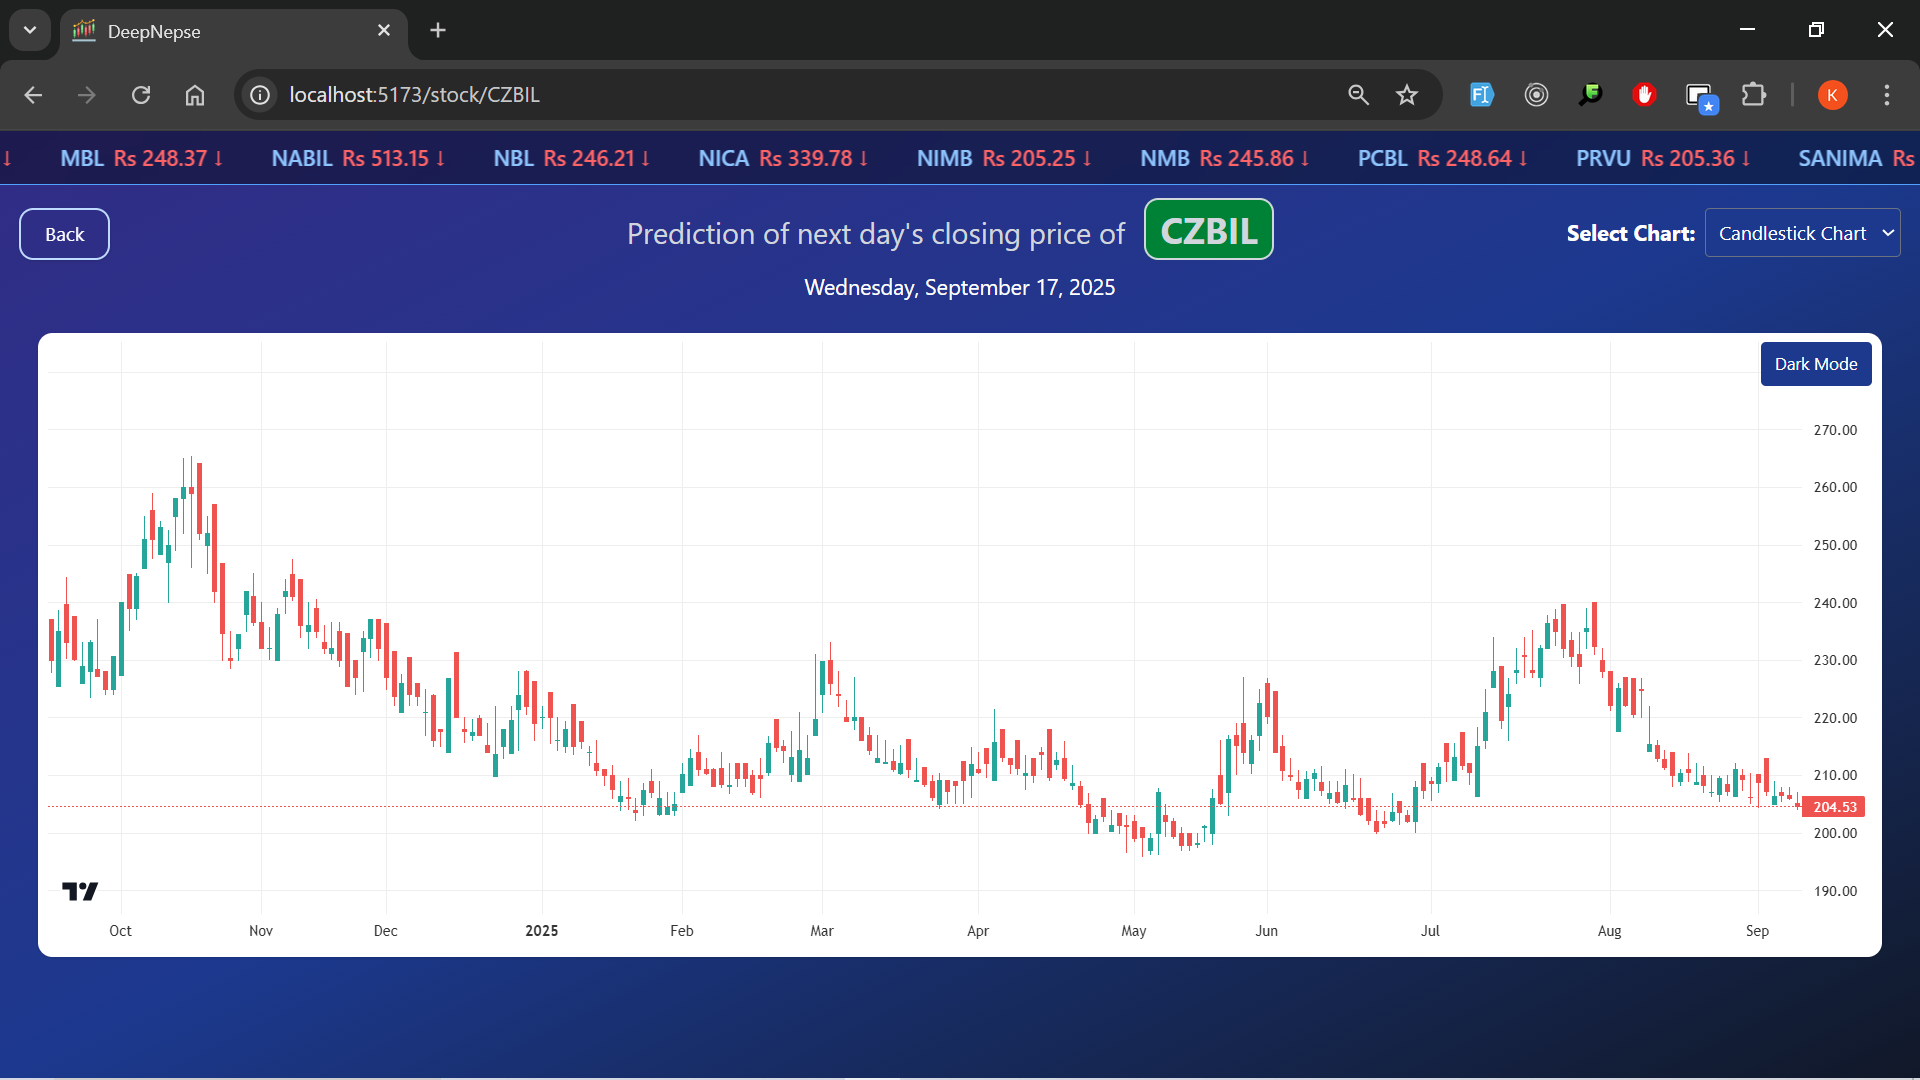
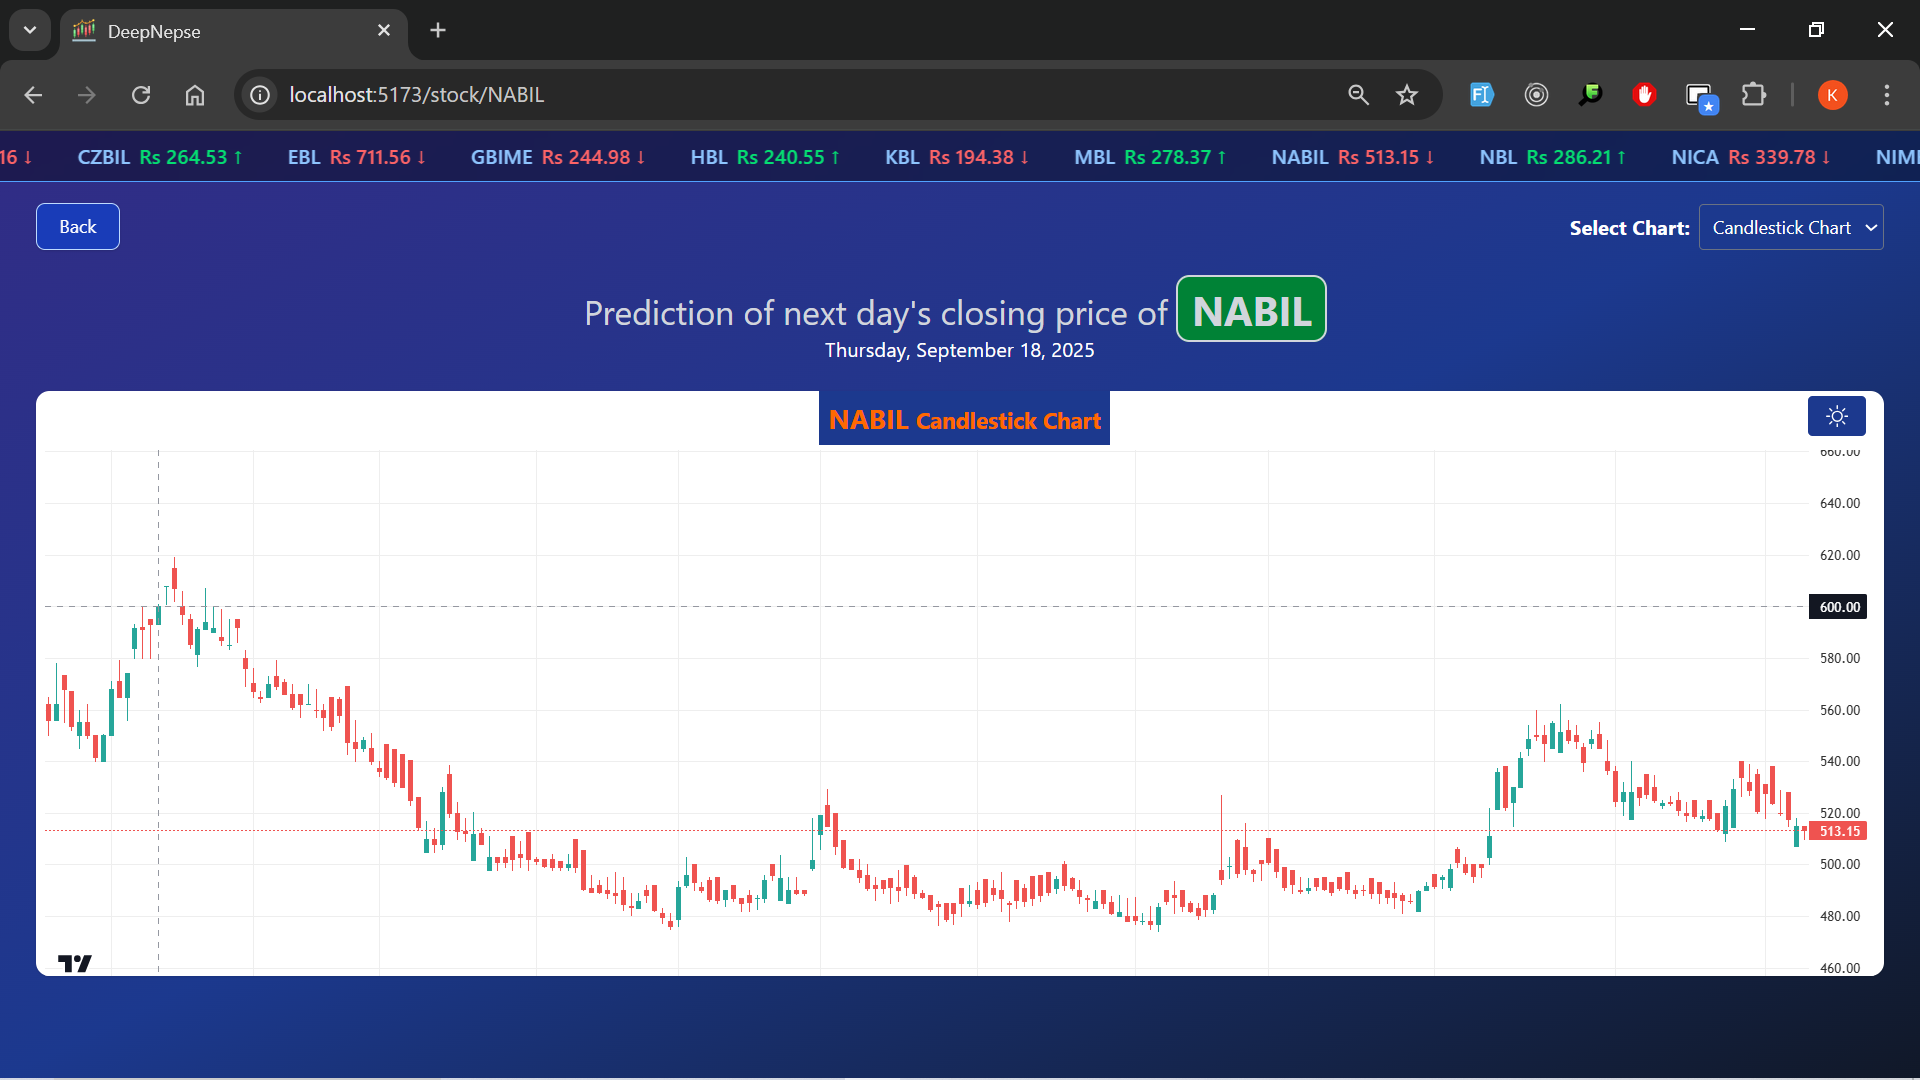
Update README and CSV data files; enhance UI components

diff --git a/frontend/src/pages/StockPrediction.jsx b/frontend/src/pages/StockPrediction.jsx
@@ -116,24 +116,27 @@ function StockPrediction() {
   };
 
   return (
-    <div className="relative min-h-screen bg-gradient-to-br from-indigo-900 via-blue-900 to-gray-900 text-white p-8">
+    <div className="relative min-h-screen bg-gradient-to-br from-indigo-900 via-blue-900 to-gray-900 text-white p-4 sm:p-6 md:p-8 overflow-x-hidden">
       {/* Stock ticker */}
-      <div className="absolute top-0 left-0 w-full overflow-hidden bg-black/40 backdrop-blur-md py-2 border-b border-blue-400">
-        <div className="animate-marquee flex gap-10 whitespace-nowrap text-lg font-semibold">
+      <div className="absolute top-0 left-0 w-full bg-black/40 backdrop-blur-md py-2 border-b border-blue-400">
+        <div className="animate-marquee flex gap-10 whitespace-nowrap text-sm sm:text-base md:text-lg font-semibold px-4">
           {stockSymbols.map((s, i) => {
-            const priceData = allPrices[s];
-            if (!priceData)
+            const symbolKey = s.toUpperCase();
+            const priceData = allPrices[symbolKey];
+            if (!priceData) {
               return (
                 <span key={i} className="text-gray-500">
-                  {s}: <LoadingSpinner/>
+                  {s}: loading...
                 </span>
               );
+            }
 
-            const yesterday = Number(priceData.yesterday);
-            const day2 = Number(priceData.day2);
+            const yesterday = Number(priceData?.yesterday ?? NaN);
+            const day2 = Number(priceData?.day2 ?? NaN);
 
             let color = "text-gray-300";
-            let arrow = "";
+            let arrow = "-";
+
             if (!isNaN(yesterday) && !isNaN(day2)) {
               if (yesterday > day2) {
                 color = "text-green-400";
@@ -141,6 +144,9 @@ function StockPrediction() {
               } else if (yesterday < day2) {
                 color = "text-red-400";
                 arrow = "↓";
+              } else {
+                color = "text-yellow-300";
+                arrow = "-";
               }
             }
 
@@ -148,7 +154,8 @@ function StockPrediction() {
               <span key={i} className="flex items-center gap-2">
                 <span className="text-blue-300">{s}</span>
                 <span className={`${color}`}>
-                  Rs {yesterday} <span className="font-bold">{arrow}</span>
+                  Rs {isNaN(yesterday) ? "N/A" : yesterday}{" "}
+                  <span className="font-bold">{arrow}</span>
                 </span>
               </span>
             );
@@ -156,42 +163,24 @@ function StockPrediction() {
         </div>
       </div>
 
-      {/* Back button */}
-      <button
-        onClick={() => navigate("/")}
-        className="px-5 py-2 flex items-center gap-2 bg-black-800/70 backdrop-blur-md rounded-xl shadow hover:bg-blue-500 transition border-2 border-blue-200 cursor-pointer absolute top-16 left-4 hover:border-blue-500"
-      >
-        Back
-      </button>
+      {/* Controls (Back button + Dropdown) */}
+      <div className="flex flex-col sm:flex-row justify-between items-start sm:items-center gap-4 mt-8">
+        <button
+          onClick={() => navigate("/")}
+          className="px-4 sm:px-5 py-2 flex items-center gap-2 bg-blue-800 backdrop-blur-md rounded-lg shadow hover:bg-blue-500 transition border border-blue-200 hover:border-blue-500 cursor-pointer"
+        >
+          Back
+        </button>
 
-      {/* Header */}
-      <div className="text-center mb-6 mt-8">
-        <p className="mt-5 text-gray-300 text-base my-4">
-          <span className="my-4 text-2xl">
-            Prediction of next day's closing price of
-          </span>
-          <span className="font-bold bg-green-700 px-3 py-1 mx-4 border-2 rounded-xl text-3xl md:mt-2">
-            {symbol?.toUpperCase()}
-          </span>
-        </p>
-        <span className="text-lg">
-          {tomorrow.toLocaleDateString("en-US", options)}
-        </span>
-      </div>
-
-      {status && (
-        <div className="text-blue-400 text-center text-5xl">{status}</div>
-      )}
-
-      {predictions && (
-        <div>
-          {/* Dropdown to select optional chart */}
-          <div className="mb-4 flex items-center gap-2 absolute top-16 right-4">
-            <span className="font-bold text-lg">Select Chart:</span>
+        {predictions && (
+          <div className="flex items-center gap-2">
+            <span className="font-bold text-base sm:text-lg">
+              Select Chart:
+            </span>
             <select
               value={selectedChart}
               onChange={(e) => setSelectedChart(e.target.value)}
-              className="p-2 rounded bg-blue-900 text-white border border-gray-500 cursor-pointer hover:bg-gray-800 outline-0"
+              className="p-2 rounded bg-blue-900 text-white border border-gray-500 cursor-pointer hover:bg-gray-800 outline-0 text-sm sm:text-base"
             >
               <option value="">Predicted price</option>
               <option value="LineCharts">Line Chart</option>
@@ -200,11 +189,36 @@ function StockPrediction() {
               <option value="Volume">Volume Bars</option>
             </select>
           </div>
+        )}
+      </div>
 
-          {/* Render content based on selection */}
+      {/* Header */}
+      <div className="text-center mb-6 mt-6 sm:mt-8">
+        <p className="text-gray-300 text-sm sm:text-base md:text-lg">
+          <span className="block sm:inline text-xl sm:text-2xl md:text-3xl mb-4">
+            Prediction of next day's closing price of
+          </span>
+          <span className="sm:inline font-bold bg-green-700 px-3 py-1 mx-2 border-2 rounded-xl text-2xl sm:text-3xl md:text-4xl mt-2 sm:mt-0">
+            {symbol?.toUpperCase()}
+          </span>
+        </p>
+        <span className="text-sm sm:text-lg">
+          {tomorrow.toLocaleDateString("en-US", options)}
+        </span>
+      </div>
+
+      {/* Status */}
+      {status && (
+        <div className="text-blue-400 text-center text-3xl sm:text-4xl md:text-5xl">
+          {status}
+        </div>
+      )}
+
+      {/* Predictions */}
+      {predictions && (
+        <div className="mt-6">
           {selectedChart === "" ? (
-            // Default view: PieCharts + PredictionsSidebar
-            <div className="flex flex-col lg:flex-row justify-center items-center gap-20 mt-4 mb-8">
+            <div className="flex flex-col lg:flex-row justify-center items-center gap-10 sm:gap-20 mt-4 mb-8">
               <PieCharts predictions={predictions} />
               <PredictionsSidebar predictions={predictions} />
             </div>

diff --git a/frontend/src/components/Indicator.jsx b/frontend/src/components/Indicator.jsx
@@ -1,7 +1,7 @@
 import { useEffect, useRef, useState } from "react";
 import { createChart, CandlestickSeries, LineSeries } from "lightweight-charts";
 import { LoadingSpinner } from "./LoadingSpinner";
-import { BsSun, BsMoon } from "react-icons/bs"; 
+import { BsSun, BsMoon } from "react-icons/bs";
 
 // ----------------- Indicators -----------------
 function calcSMA(data, period = 14) {
@@ -187,17 +187,24 @@ function Indicator({ symbol = "NABIL" }) {
 
   return (
     <div
-      className={`w-full rounded-xl shadow p-2 pr-6 relative
+      className={`w-full -mb-4 rounded-xl shadow p-2 pr-6 relative
       ${darkMode ? "bg-[#0f172a]" : "bg-white"}`}
     >
       {loading && <LoadingSpinner />}
 
+      <h2 className="text-lg font-bold -mt-2 text-center">
+        <span className="ml-2 text-2xl text-orange-500 bg-blue-900 p-2">
+          {symbol?.toUpperCase()}{" "}
+          <span className="text-xl">Indicator Chart</span>
+        </span>
+      </h2>
+
       {/* Dark Mode Toggle */}
       <button
         onClick={() => setDarkMode((prev) => !prev)}
-        className="absolute top-2 right-2 px-3 py-2 bg-blue-900 text-white rounded text-sm z-10 cursor-pointer"
+        className="absolute top-2 right-2 px-4 py-2 bg-blue-900 text-white rounded text-sm z-10 cursor-pointer"
       >
-        {darkMode ? <BsSun size={20} /> : <BsMoon size={20} />}
+        {darkMode ? <BsMoon size={20} /> : <BsSun size={20} />}
       </button>
 
       {/* Indicator Legend */}

diff --git a/frontend/src/components/VolumeBars.jsx b/frontend/src/components/VolumeBars.jsx
@@ -5,7 +5,7 @@ import {
   HistogramSeries,
 } from "lightweight-charts";
 import { LoadingSpinner } from "./LoadingSpinner";
-import { BsSun, BsMoon } from "react-icons/bs"; 
+import { BsSun, BsMoon } from "react-icons/bs";
 
 function VolumeBars({ symbol = "NABIL" }) {
   const chartContainerRef = useRef(null);
@@ -118,15 +118,22 @@ function VolumeBars({ symbol = "NABIL" }) {
 
   return (
     <div
-      className={`w-full h-[500px] rounded-xl shadow p-2 mb-11 relative
+      className={`w-full h-[500px] rounded-xl shadow py-14 -mb-4 relative
       ${darkMode ? "bg-[#0f172a]" : "bg-white"}`}
     >
+      <h2 className="text-lg font-bold text-center -mt-14">
+        <span className="ml-2 text-2xl text-orange-500 bg-blue-900 p-2">
+          {symbol?.toUpperCase()}{" "}
+          <span className="text-xl">Volume Bars</span>
+        </span>
+      </h2>
+
       {/* Dark Mode Toggle */}
       <button
         onClick={() => setDarkMode((prev) => !prev)}
-        className="absolute top-2 right-2 px-3 py-2 bg-blue-900 text-white rounded-md text-sm z-10 cursor-pointer"
+        className="absolute top-2 px-4 py-2 bg-blue-900 text-white rounded-md text-sm z-10 cursor-pointer right-3"
       >
-        {darkMode ? <BsSun size={20} /> : <BsMoon size={20} />}
+        {darkMode ? <BsMoon size={20} /> : <BsSun size={20} />}
       </button>
 
       {loading && <LoadingSpinner />}

diff --git a/frontend/src/components/CandleStickCharts.jsx b/frontend/src/components/CandleStickCharts.jsx
@@ -100,15 +100,21 @@ function CandleStickCharts({ symbol = "NABIL" }) {
 
   return (
     <div
-      className={`w-full h-[520px] rounded-xl shadow p-2 mb-1 relative
+      className={`w-full h-[520px] rounded-xl shadow p-2 -mb-6 relative overflow-y-hidden
       ${darkMode ? "bg-[#0f172a]" : "bg-white"}`}
     >
+      <h2 className="text-lg font-bold mb-3 text-center">
+        <span className="ml-2 text-2xl text-orange-500 bg-blue-900 p-2">
+          {symbol?.toUpperCase()}{" "}
+          <span className="text-xl">Candlestick Chart</span>
+        </span>
+      </h2>
       {/* Dark Mode Toggle Button */}
       <button
         onClick={() => setDarkMode((prev) => !prev)}
-        className="absolute top-2 right-2 px-3 py-2 bg-blue-900 text-white text-sm z-10 rounded-sm cursor-pointer"
+        className="absolute top-2 right-2 px-4 py-2 bg-blue-900 text-white text-sm z-10 rounded-sm cursor-pointer -mt-1 mr-2"
       >
-        {darkMode ? <BsSun size={20} /> : <BsMoon size={20} />}
+        {darkMode ? <BsMoon size={20} /> : <BsSun size={20} />}
       </button>
 
       {loading && <LoadingSpinner />}

diff --git a/frontend/src/components/LoadingSpinner.jsx b/frontend/src/components/LoadingSpinner.jsx
@@ -2,11 +2,11 @@ export function LoadingSpinner() {
   return (
     <div
       style={{
-        border: "2px solid #f3f3f3",
+        border: "4px solid #f3f3f3",
         borderTop: "4px solid #3498db",
         borderRadius: "50%",
-        width: "20px",
-        height: "20px",
+        width: "40px",
+        height: "40px",
         animation: "spin 1s linear infinite",
         margin: "auto",
       }}

diff --git a/README.md b/README.md
@@ -2,8 +2,8 @@
 ![PieChart Page](./images/pieChart.jpg)
 ![LineChart Page](./images/lineChart.jpg)
 ![CandleStickChart Page](./images/candleStickChart.jpg)
-![IndicatorChart Page](./images/indicatorChart.jpg)
 ![VolumeBars Page](./images/volumeBars.jpg)
+![IndicatorChart Page](./images/indicatorChart.jpg)
 
 
 
